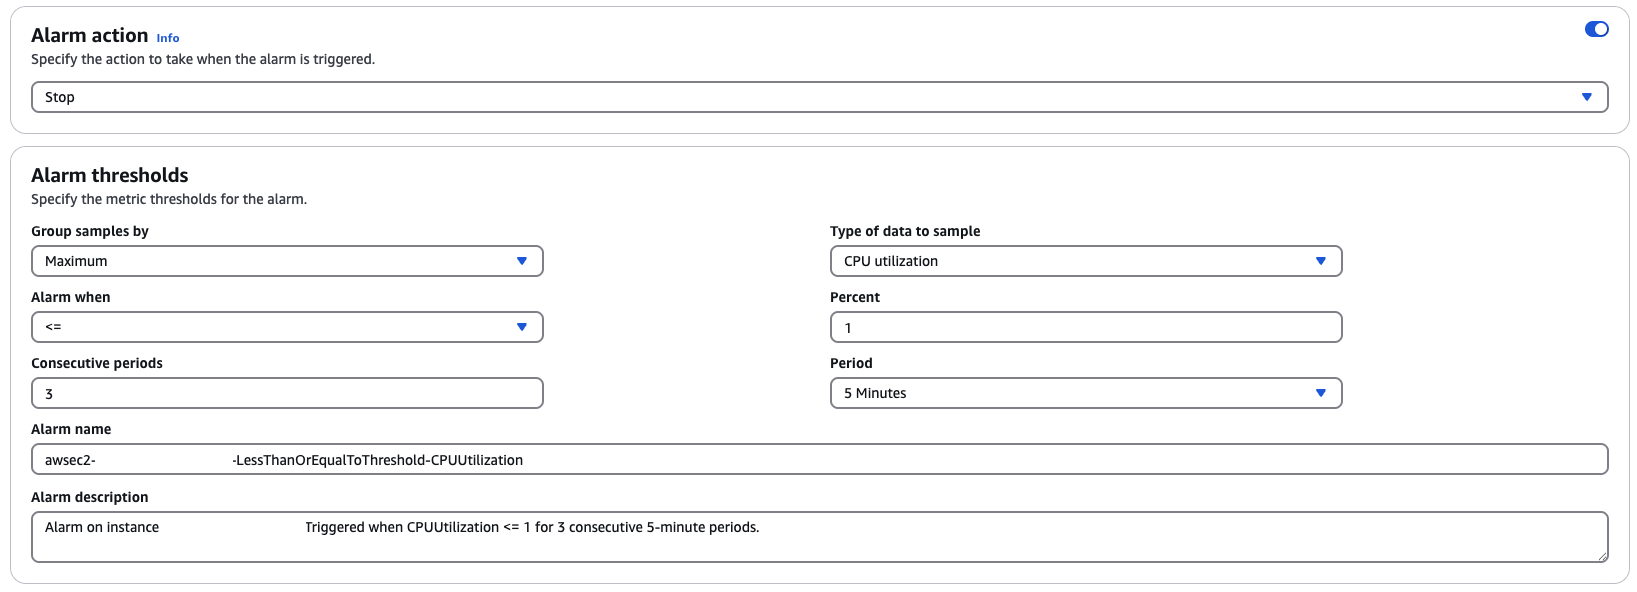
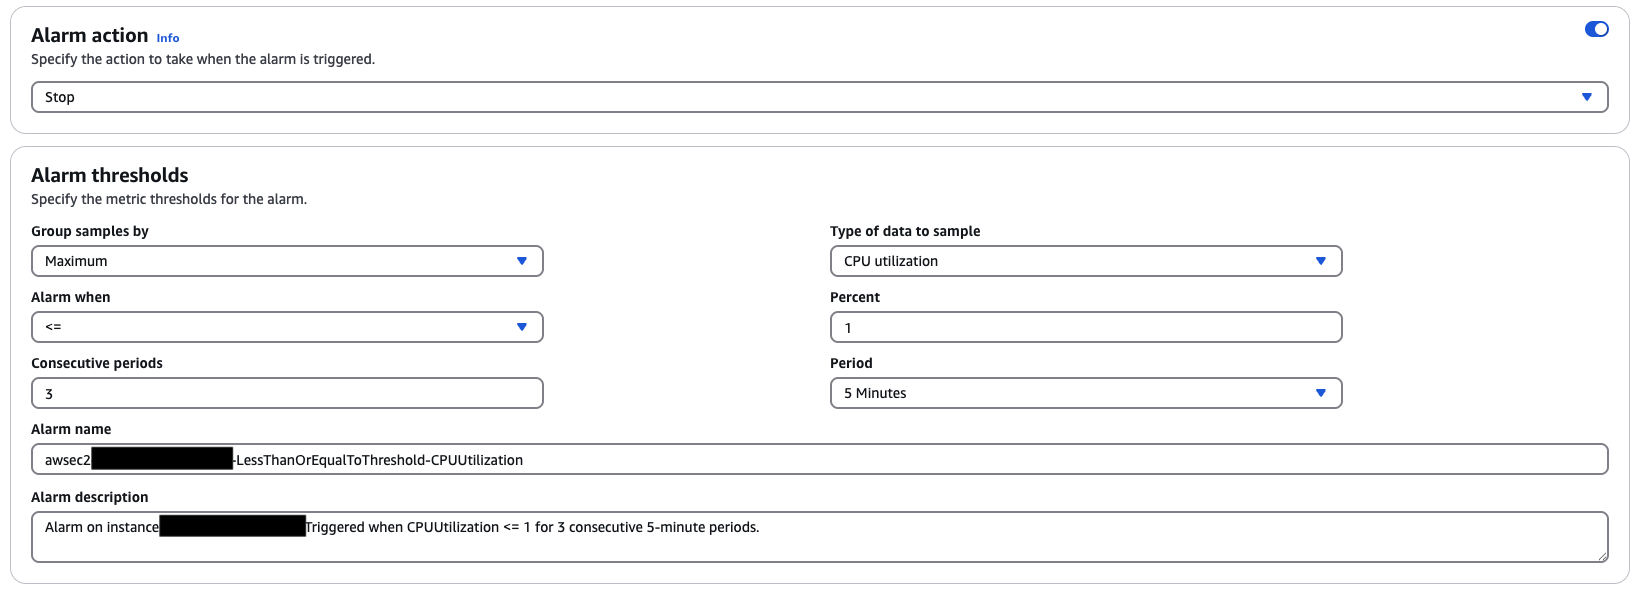
Adjusted image widths, fixed image redactions

Changed region(s): [[0.0312, 0.7297, 0.1558, 0.8209], [0.0935, 0.8514, 0.1869, 0.9122]]

diff --git a/AWS_SETUP.md b/AWS_SETUP.md
@@ -12,7 +12,7 @@ The first step is to launch a Tranium EC2 instance.
     - AMI: Deep Learning AMI Neuron (Ubuntu 22.04)
     - Instance Type: trn1.2xlarge
 <p align="center">
-  <img width="80%" src="./img/aws_setup/1_instance_info.png">
+  <img width="40%" src="./img/aws_setup/1_instance_info.png">
 </p>
 
 4. Scroll down, and click create new key pair. Select the following for your key pair details:
@@ -20,7 +20,7 @@ The first step is to launch a Tranium EC2 instance.
     - Key pair type: ED25519
     - Private key file format: .pem
 <p align="center">
-  <img width="80%" src="./img/aws_setup/2_key_setup.png">
+  <img width="30%" src="./img/aws_setup/2_key_setup.png">
 </p>
 
 Click "Create key pair", and the `trn1_cs152.pem` file will be downloaded to your local computer. Once the key is downloaded, move it to your `~/.ssh` directory, and make sure to set the permissions to read-only for the owner (400 sets r-- --- --- permissions for the file). 
@@ -36,12 +36,12 @@ chmod 400 ~/.ssh/trn1_cs152.pem
     - Select "Anywhere 0.0.0.0/0"
 
 <p align="center">
-  <img width="80%" src="./img/aws_setup/3_key_security_group.png">
+  <img width="40%" src="./img/aws_setup/3_key_security_group.png">
 </p>
 
 6. Scroll down further to the "Configure storage" settings, and set it to 150 GiB or gp3 storage.
 <p align="center">
-  <img width="80%" src="./img/aws_setup/3_1_storage_settings.png">
+  <img width="40%" src="./img/aws_setup/3_1_storage_settings.png">
 </p>
 
 
@@ -49,7 +49,7 @@ chmod 400 ~/.ssh/trn1_cs152.pem
 confirm the information is correct, and launch your instance!
 
 <p align="center">
-  <img width="80%" src="./img/aws_setup/4_summary_launch.png">
+  <img width="30%" src="./img/aws_setup/4_summary_launch.png">
 </p>
 
 ### Potential Errors:
@@ -76,14 +76,14 @@ This next step is to set up an Elastic IP for your instance. By default, the IPv
 3. Click the orange "Allocate" button. Now, you have an Elastic IP to use.
 4. Rename the Elastic IP to trn1_cs152
 <p align="center">
-  <img width="80%" src="./img/aws_setup/5_name_ip.png">
+  <img width="60%" src="./img/aws_setup/5_name_ip.png">
 </p>
 
 5. Make sure the trn1_cs152 Elastic IP is selected (blue checkbox on the left of the name), and click the "Actions" dropdown menu in the top right of the screen.
 
 6. Select "Associate Elastic IP address." Click on the "Instance" selection, and select the trn1_cs152 instance. Click the orange "Associate" button. 
 <p align="center">
-  <img width="80%" src="./img/aws_setup/6_select_instance_associate.png">
+  <img width="60%" src="./img/aws_setup/6_select_instance_associate.png">
 </p>
 
 ## Step 3: Setup SSH
@@ -93,7 +93,7 @@ This step is to ensure you have SSH access from your local computer to the Trn1 
 2. Click on the checkbox next to your trn1_cs152 instance. Scroll down to the "Details" section and copy the Public IPv4 DNS. It should look like this: `ec2-###-###-###-###.us-east-2.compute.amazonaws.com` (where the # symbols are numbers).
 
 <p align="center">
-  <img width="80%" src="./img/aws_setup/7_get_dns.png">
+  <img width="60%" src="./img/aws_setup/7_get_dns.png">
 </p>
 
 
@@ -125,7 +125,7 @@ ssh trn1_cs152
     - Period: 5 minutes
 
 <p align="center">
-  <img width="80%" src="./img/aws_setup/8_alarm_details.png">
+  <img width="60%" src="./img/aws_setup/8_alarm_details.png">
 </p>
 
 3. Search "Budgets" in the top search bar, and in the "Features" section, click on "Budgets". Click on the orange "Create a Budget" button. 
@@ -135,7 +135,7 @@ ssh trn1_cs152
     - Enter your email in the "Email recipients" box
 
 <p align="center">
-  <img width="80%" src="./img/aws_setup/9_budget_details.png">
+  <img width="60%" src="./img/aws_setup/9_budget_details.png">
 </p>
 
 5. Finally, click the orange "Create Budget" button.
